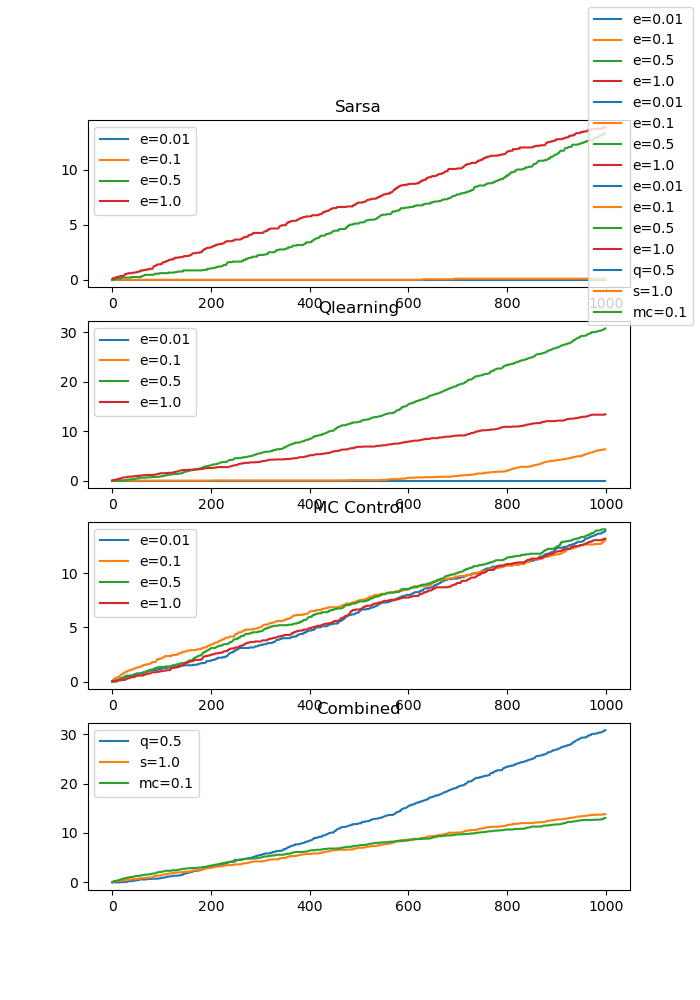
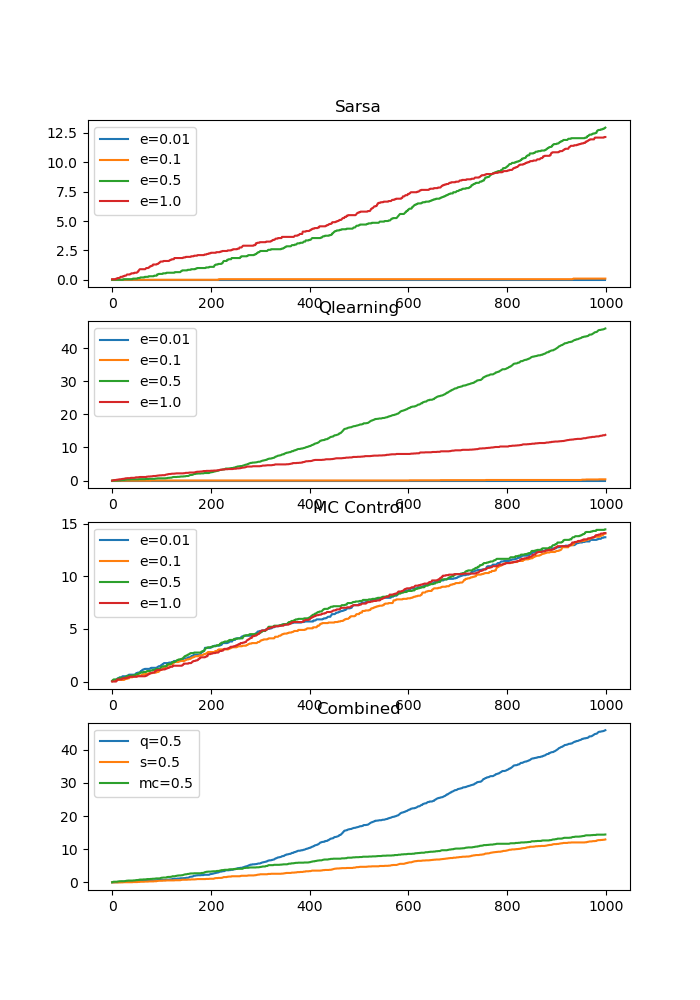
minor

diff --git a/aufgabe6/start.py b/aufgabe6/start.py
@@ -10,7 +10,7 @@ epsilons = [0.01, 0.1, 0.5, 1.0]
 no_episodes = 1000
 mean_episodes = 20
 lr = 0.3
-gamma = 0.9
+gamma = 1
 stats = {1:[0.1, 0.5,], 2:[0.01, 20, 0.5, 1.0], 3:[0.01, 0.1, 0.5, 1.0], 4:[0.01, 0.1, 0.5, 1.0]}
 print(max(stats, key=lambda k: sum(stats[k])))
 
@@ -23,10 +23,10 @@ mcresults = mccontrol.play()
 
 
 best_epsilon  = {}
-#get best epsilon for every algo
-best_epsilon["qlearning"] = max(qresults, key=lambda k: np.sum(qresults[k]))
-best_epsilon["sarsa"] = max(sarsaresults, key=lambda k: np.sum(sarsaresults[k]))
-best_epsilon["mcresults"] = max(mcresults, key=lambda k: np.sum(mcresults[k]))
+#get best epsilon for every algo -> NP max not correct yet
+best_epsilon["qlearning"] = max(qresults, key=lambda k: np.max(qresults[k]))
+best_epsilon["sarsa"] = max(sarsaresults, key=lambda k: np.max(sarsaresults[k]))
+best_epsilon["mcresults"] = max(mcresults, key=lambda k: np.max(mcresults[k]))
 
 
 fig, (ax1, ax2, ax3, ax4) = plt.subplots(4, figsize=(7,10))
